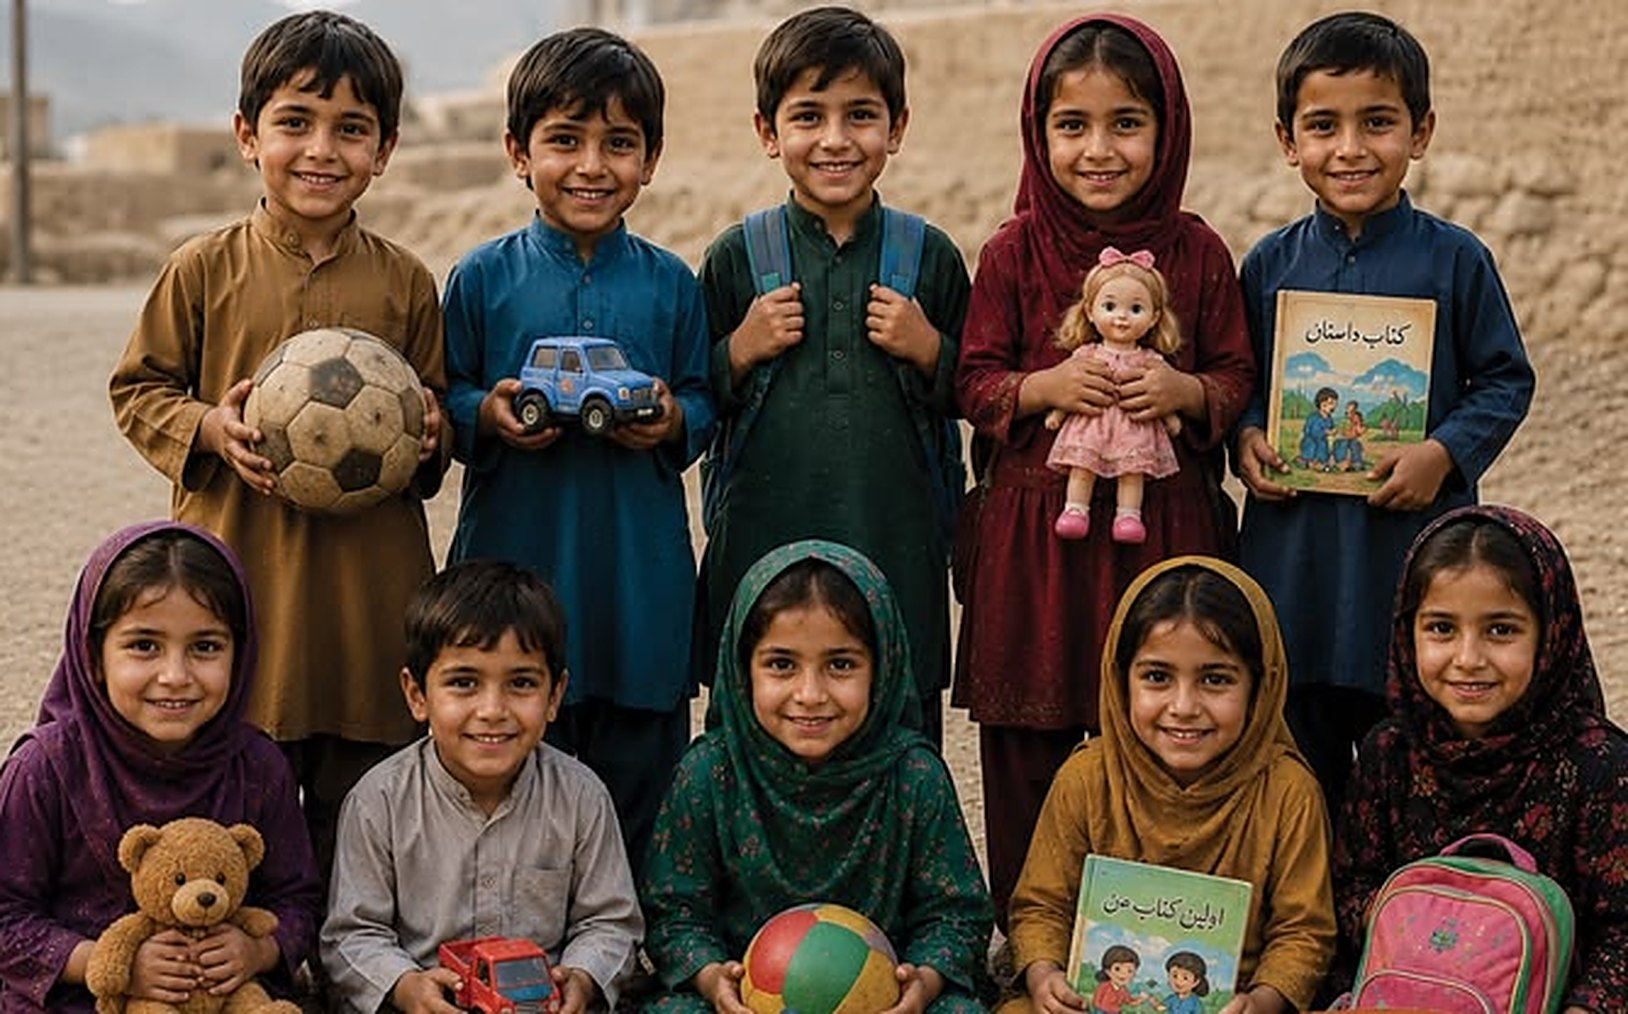
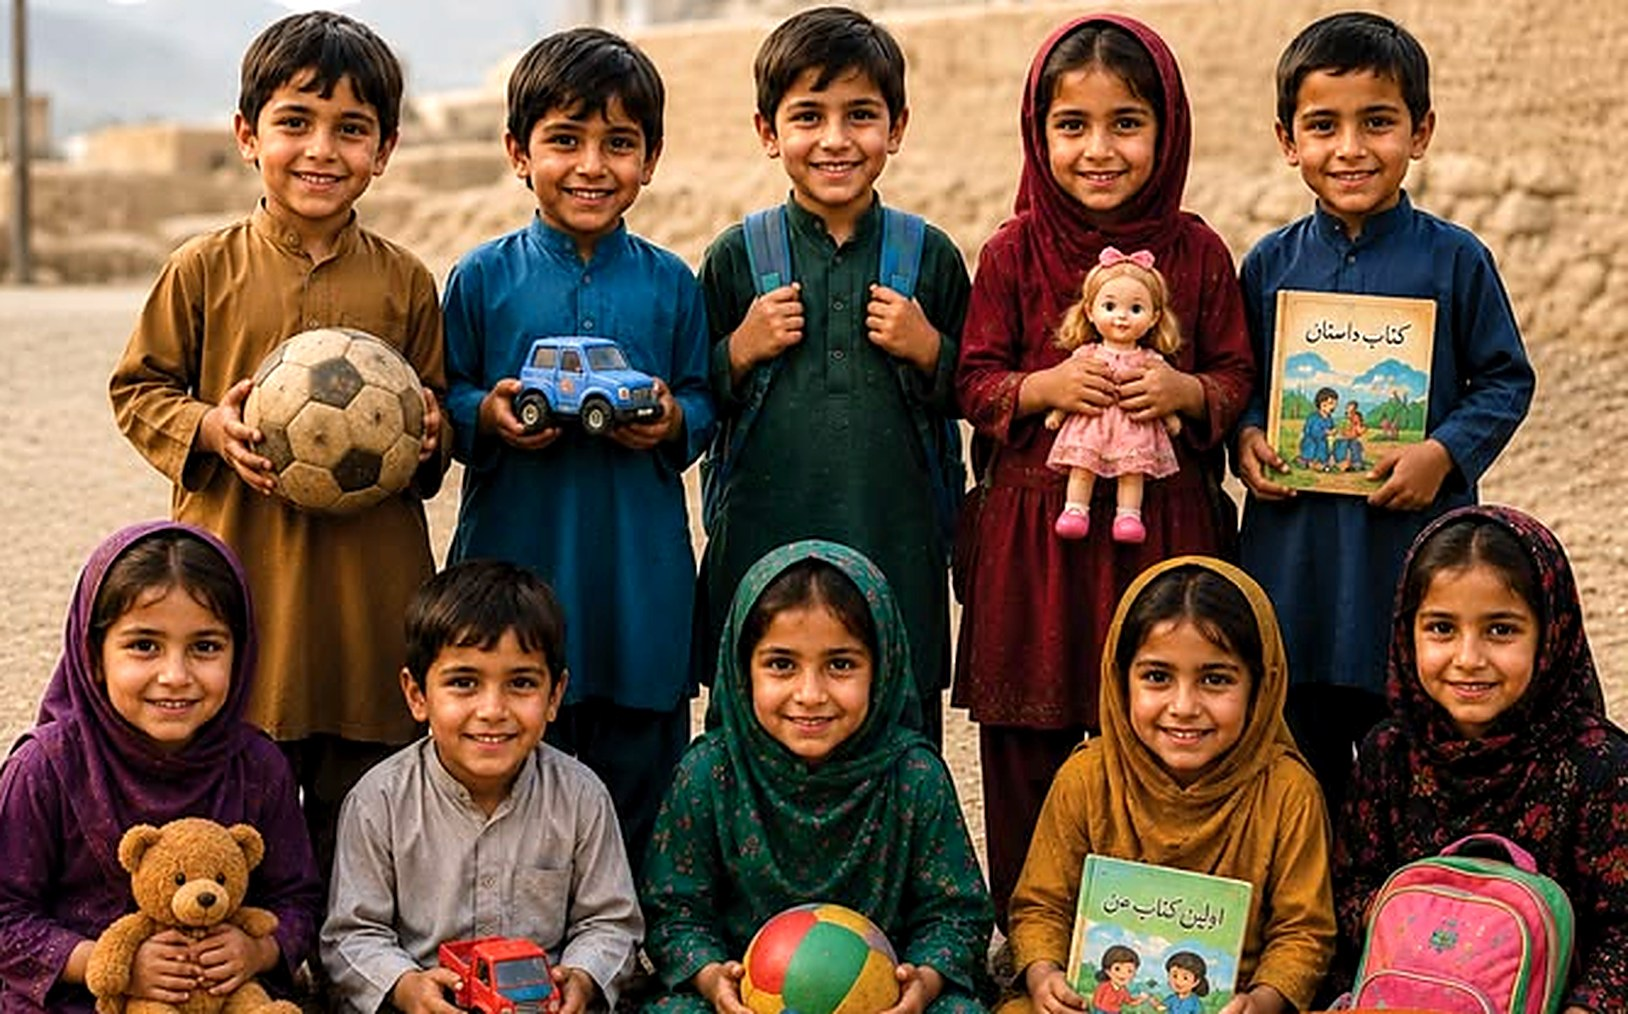
Hero heller und farbiger: Foto aufgehellt (Brightness 1.16, Farbe 1.18, Kontrast 1.06) und vor allem die beiden dunklen Overlays stark zurueckgenommen (oben 75->45, Mitte 60->25, rechts 70->35 Prozent). Unten bleibt es mit 80 Prozent dichter, damit Headline und Vertrauensbalken lesbar bleiben. Bildq

diff --git a/src/components/home/Hero.tsx b/src/components/home/Hero.tsx
@@ -79,16 +79,18 @@ export default function Hero({ locale }: { locale: Locale }) {
         fill
         priority
         sizes="100vw"
-        quality={75}
+        quality={82}
         className="absolute inset-0 object-cover object-[50%_28%]"
       />
 
       {/*
-        Lesbarkeits-Overlay: deutlich transparenter als zuvor, damit das Foto
-        sichtbar bleibt. Nach unten dichter, wo der Text steht.
+        Lesbarkeits-Overlay: bewusst zurueckhaltend, damit die Gesichter der
+        Kinder klar erkennbar bleiben. Oben und in der Bildmitte sehr leicht,
+        nach unten dichter — dort stehen Headline, Buttons und Vertrauensbalken
+        und brauchen ausreichenden Kontrast gegen die weisse Schrift.
       */}
-      <div className="absolute inset-0 bg-gradient-to-b from-brand-900/75 via-brand-900/60 to-brand-900/85" />
-      <div className="absolute inset-0 bg-gradient-to-r from-brand-900/70 to-transparent" />
+      <div className="absolute inset-0 bg-gradient-to-b from-brand-900/45 via-brand-900/25 to-brand-900/80" />
+      <div className="absolute inset-0 bg-gradient-to-r from-brand-900/35 to-transparent" />
 
       {/* Sanft atmende Farbakzente (dezent) */}
       <div className="floaty pointer-events-none absolute -right-32 -top-32 h-[28rem] w-[28rem] rounded-full bg-accent-500/20 blur-3xl" />
